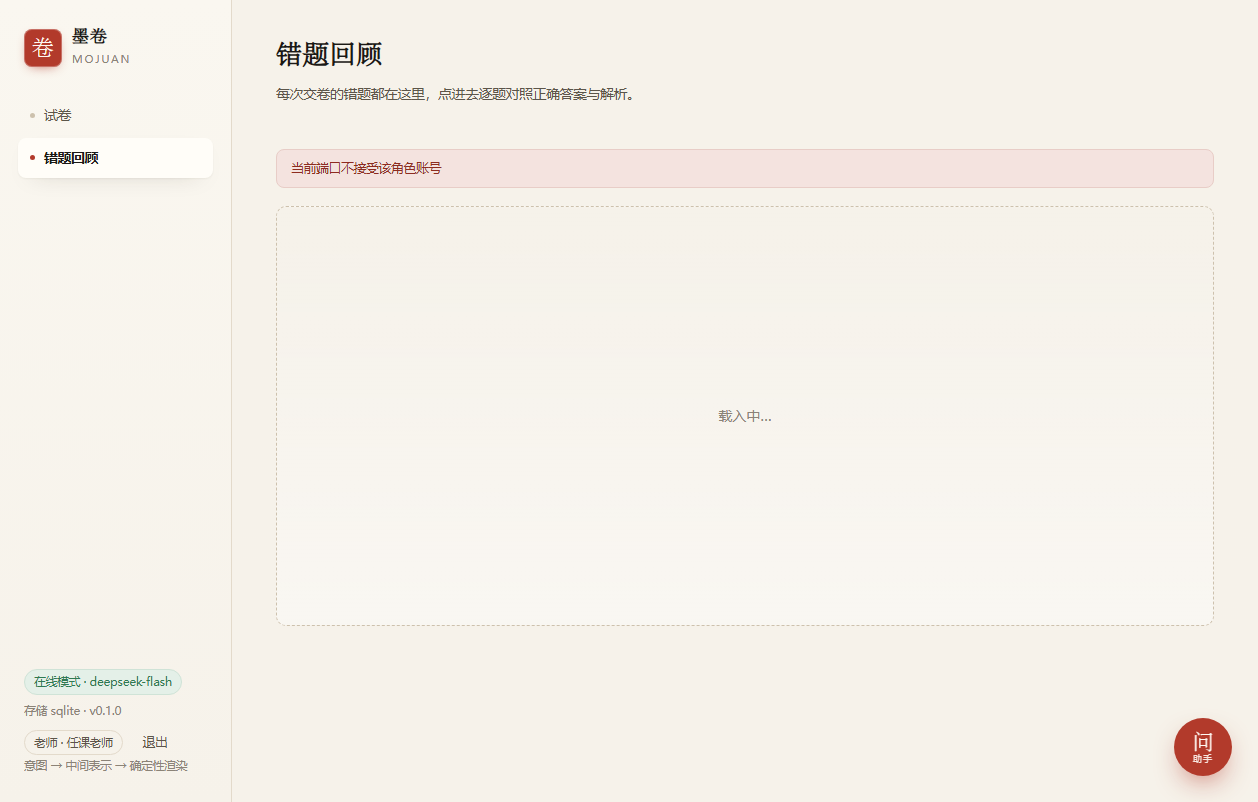
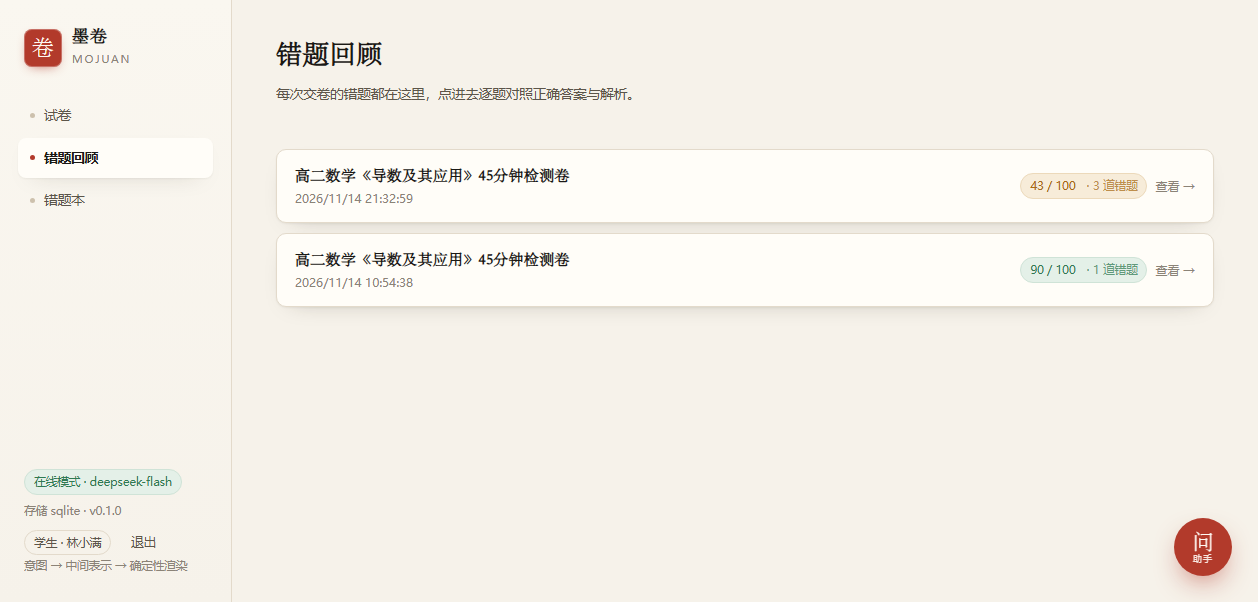
fix(style): 标签在 flex 行里被压扁叠字
错题回顾右上的「3 道错题」和分数标签重叠，截图里字被裁掉一半。

量出来：标签宽 38px，内容宽 106px —— 不是间距问题，是 flex 行把 inline-flex
标签压缩到比文字还窄，文字直接溢出去压在下一个元素上。
诊断卡、错题本、错题回顾三处叠字都是这个根因。

- .tag 基类加 flex:0 0 auto / width:max-content / nowrap，一次钉死
- 错题回顾把「分数」与「错题数」合成一个标签，
  用 .tag-sub 做次级文字，不再并排两个 pill

Prompt-ID: P32

diff --git a/web/src/styles.css b/web/src/styles.css
@@ -183,6 +183,14 @@ input, textarea, select {
   display: inline-flex;
   align-items: center;
   gap: 5px;
+  /* 放在 flex 行里会被压到比文字还窄，导致叠字——这里一次性钉死 */
+  flex: 0 0 auto;
+  min-width: max-content;
+  width: max-content;
+  max-width: 100%;
+  white-space: nowrap;
+  line-height: 1.7;
+  overflow: visible;
   padding: 2px 9px;
   border-radius: 999px;
   font-size: 11.5px;
@@ -750,3 +758,6 @@ table.plain tr:last-child td { border-bottom: none; }
 .qcard-head > .tag { flex: 0 0 auto; min-width: max-content; width: max-content; }
 .qcard-head > .qnum { flex: 0 0 auto; }
 .tag { white-space: nowrap; }
+
+/* 标签内的次要信息来源，避免并排两个 pill 挤在一起 */
+.tag-sub { margin-left: 6px; opacity: .72; font-weight: 400; }

diff --git a/web/src/pages/reviews.tsx b/web/src/pages/reviews.tsx
@@ -58,9 +58,7 @@ export function ReviewsPage({ onNavigate }: { onNavigate: (path: string) => void
                 <div className="review-row-stats">
                   <span className={`tag ${percent >= 60 ? 'ok' : 'warn'}`}>
                     {attempt.score} / {attempt.maxScore}
-                  </span>
-                  <span className={`tag${attempt.wrong > 0 ? ' seal' : ''}`}>
-                    {attempt.wrong > 0 ? `${attempt.wrong} 道错题` : '全对'}
+                    <span className="tag-sub">{attempt.wrong > 0 ? `· ${attempt.wrong} 道错题` : '· 全对'}</span>
                   </span>
                   <span className="review-row-go">查看 →</span>
                 </div>
